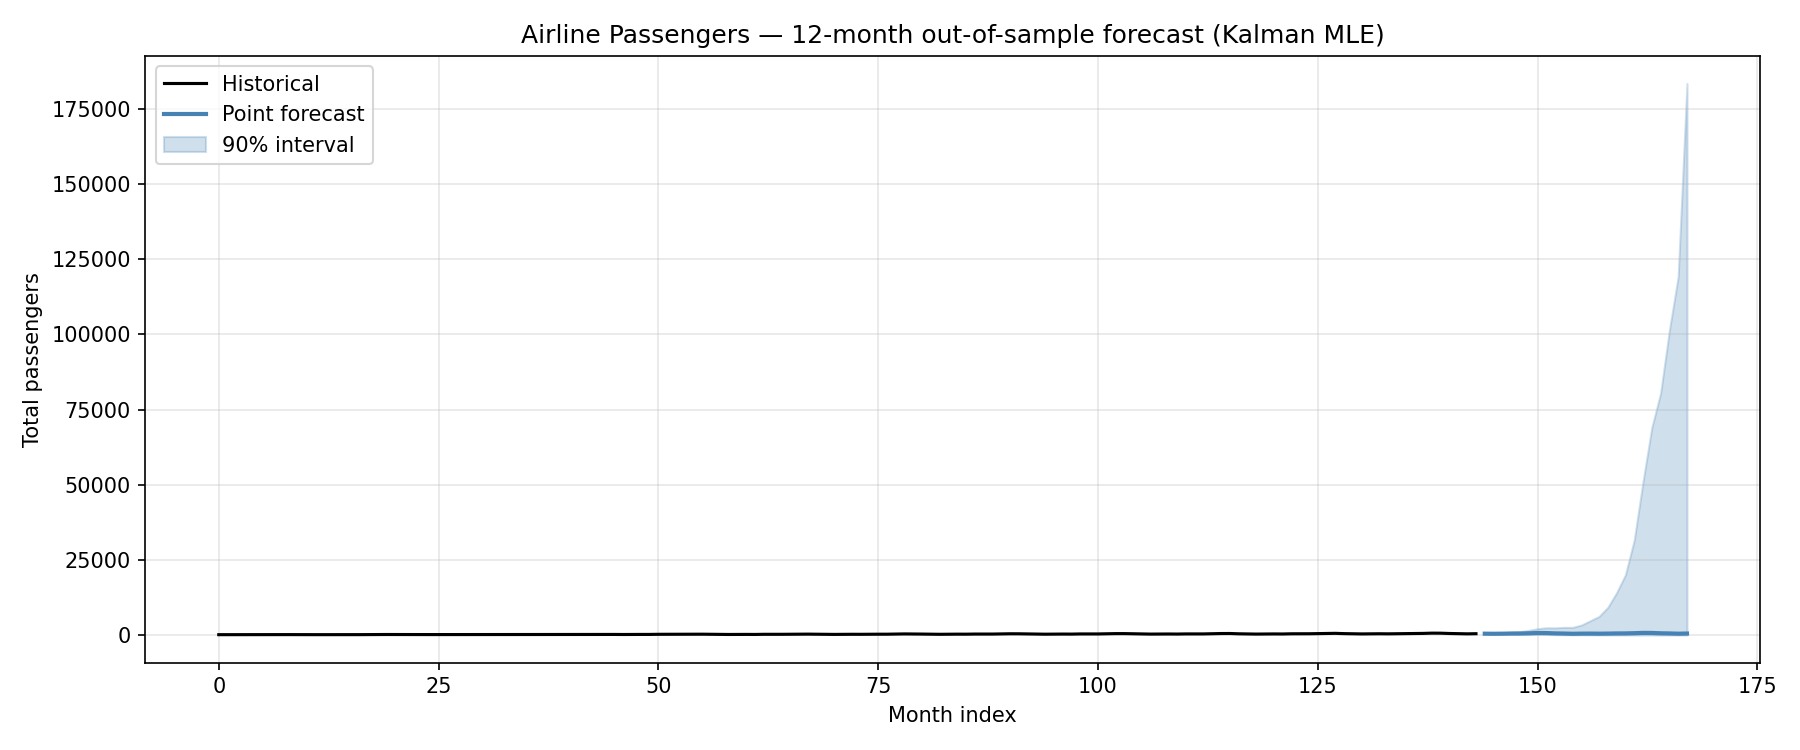
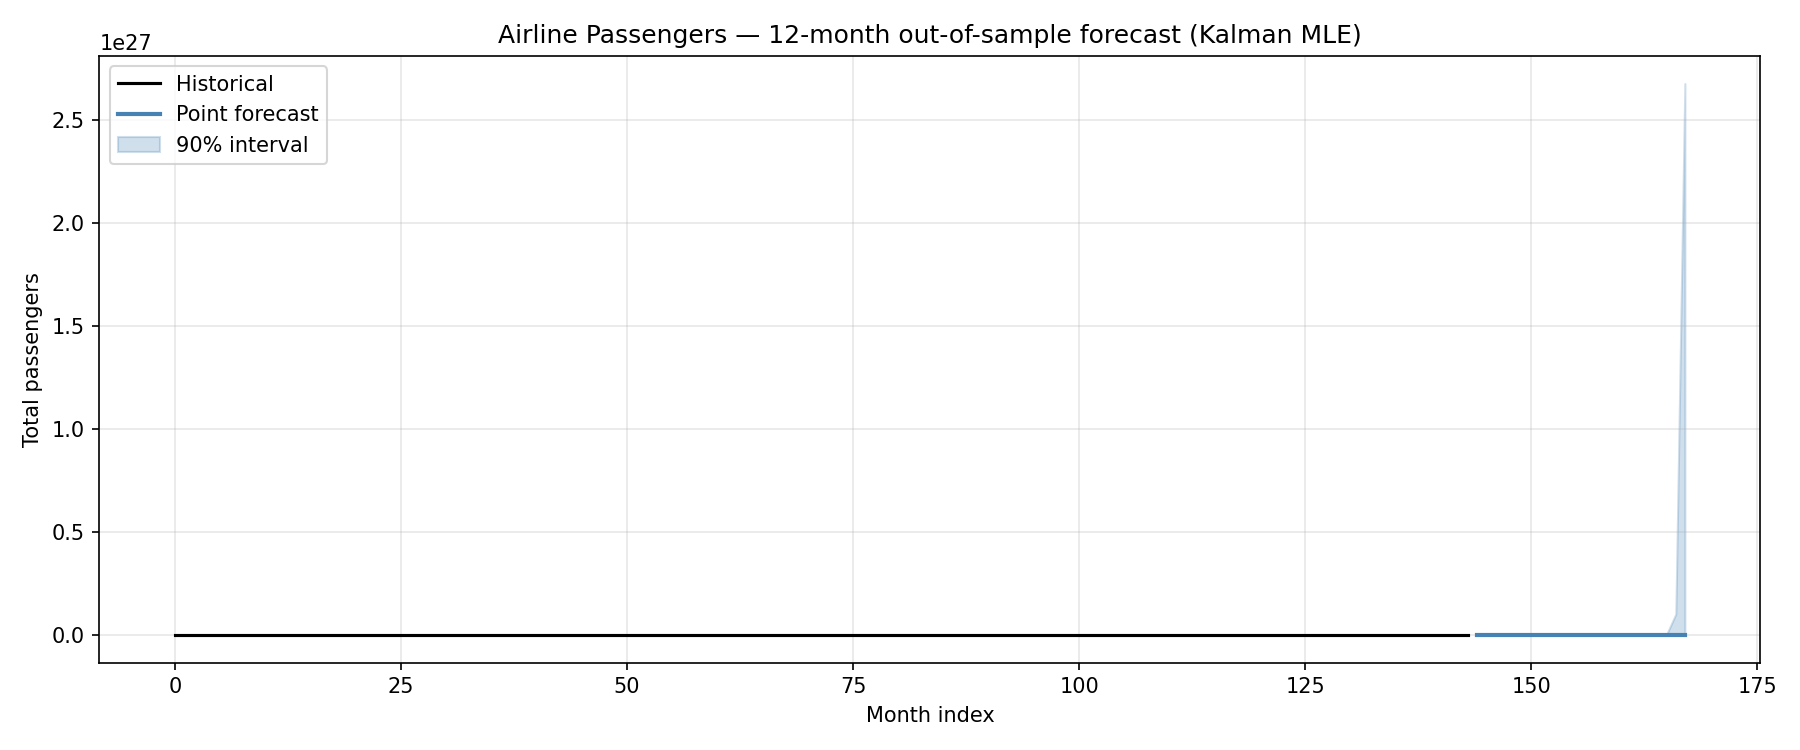
fix filter

diff --git a/crates/state-space-core/src/state_space_model.rs b/crates/state-space-core/src/state_space_model.rs
@@ -275,8 +275,8 @@ impl LinearGaussianStateSpaceModel {
         let state_dist = &(self.parameters.get_state_dist());
         let obs_dist = &(self.parameters.get_observation_dist());
 
-        let current_state_mean = initial_dist.get_mean();
-        let current_state_cov = initial_dist.get_cov();
+        let mut current_state_mean = initial_dist.get_mean();
+        let mut current_state_cov = initial_dist.get_cov();
 
         let transition_matrix = self.parameters.get_transition_matrix();
         let observation_matrix = self.parameters.get_observation_matrix();
@@ -310,9 +310,12 @@ impl LinearGaussianStateSpaceModel {
             let updated_mean = &next_mean + &kalman_gain * &current_error;
             let updated_cov = &next_cov - &kalman_gain * &observation_matrix * &next_cov;
             let filtered_current_state =
-                GaussianDistribution::new_from_params(updated_mean, updated_cov).unwrap();
+                GaussianDistribution::new_from_params(updated_mean.clone(), updated_cov.clone()).unwrap();
 
             filtered_states.push(filtered_current_state.clone());
+
+            current_state_mean = updated_mean;
+            current_state_cov = updated_cov;
         }
 
         return (predicted_states, filtered_states);

diff --git a/examples/airline_forecast.py b/examples/airline_forecast.py
@@ -52,7 +52,6 @@ def neg_log_likelihood(theta: np.ndarray) -> float:
     try:
         model.set_parameters(theta)
         ll = model.log_likelihood(y.reshape(-1, SIZE_OBS)) / SIZE_OBS
-        print(ll)
         if not np.isfinite(ll):
             return 1e10
         return -ll
@@ -77,8 +76,8 @@ bounds = [
 ]
 
 result = minimize(
-    neg_log_likelihood, x0, method="L-BFGS-B", bounds=bounds,
-    options={"maxiter": 2000, "ftol": 1e-12},
+    neg_log_likelihood, x0, method="TNC",
+    options={"maxiter": 100, "ftol": 1e-12},
 )
 print(f"Optimization: success={result.success}, nll={result.fun:.4f}")
 print(f"Optimal params: {result.x}")
